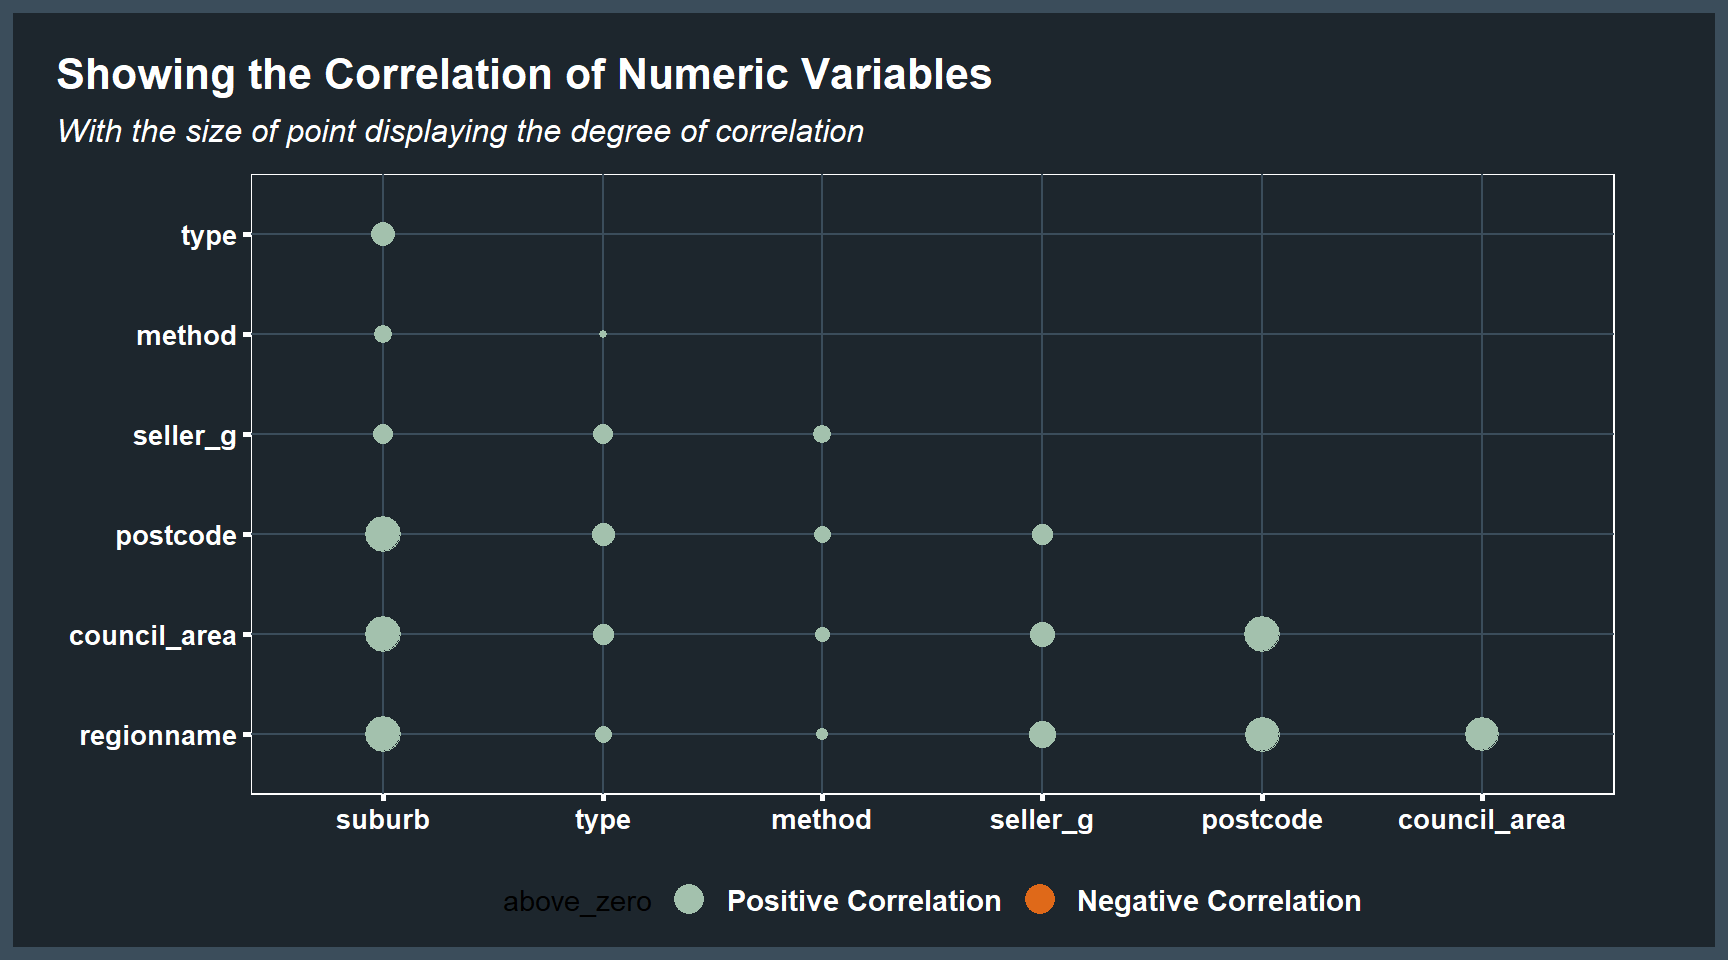
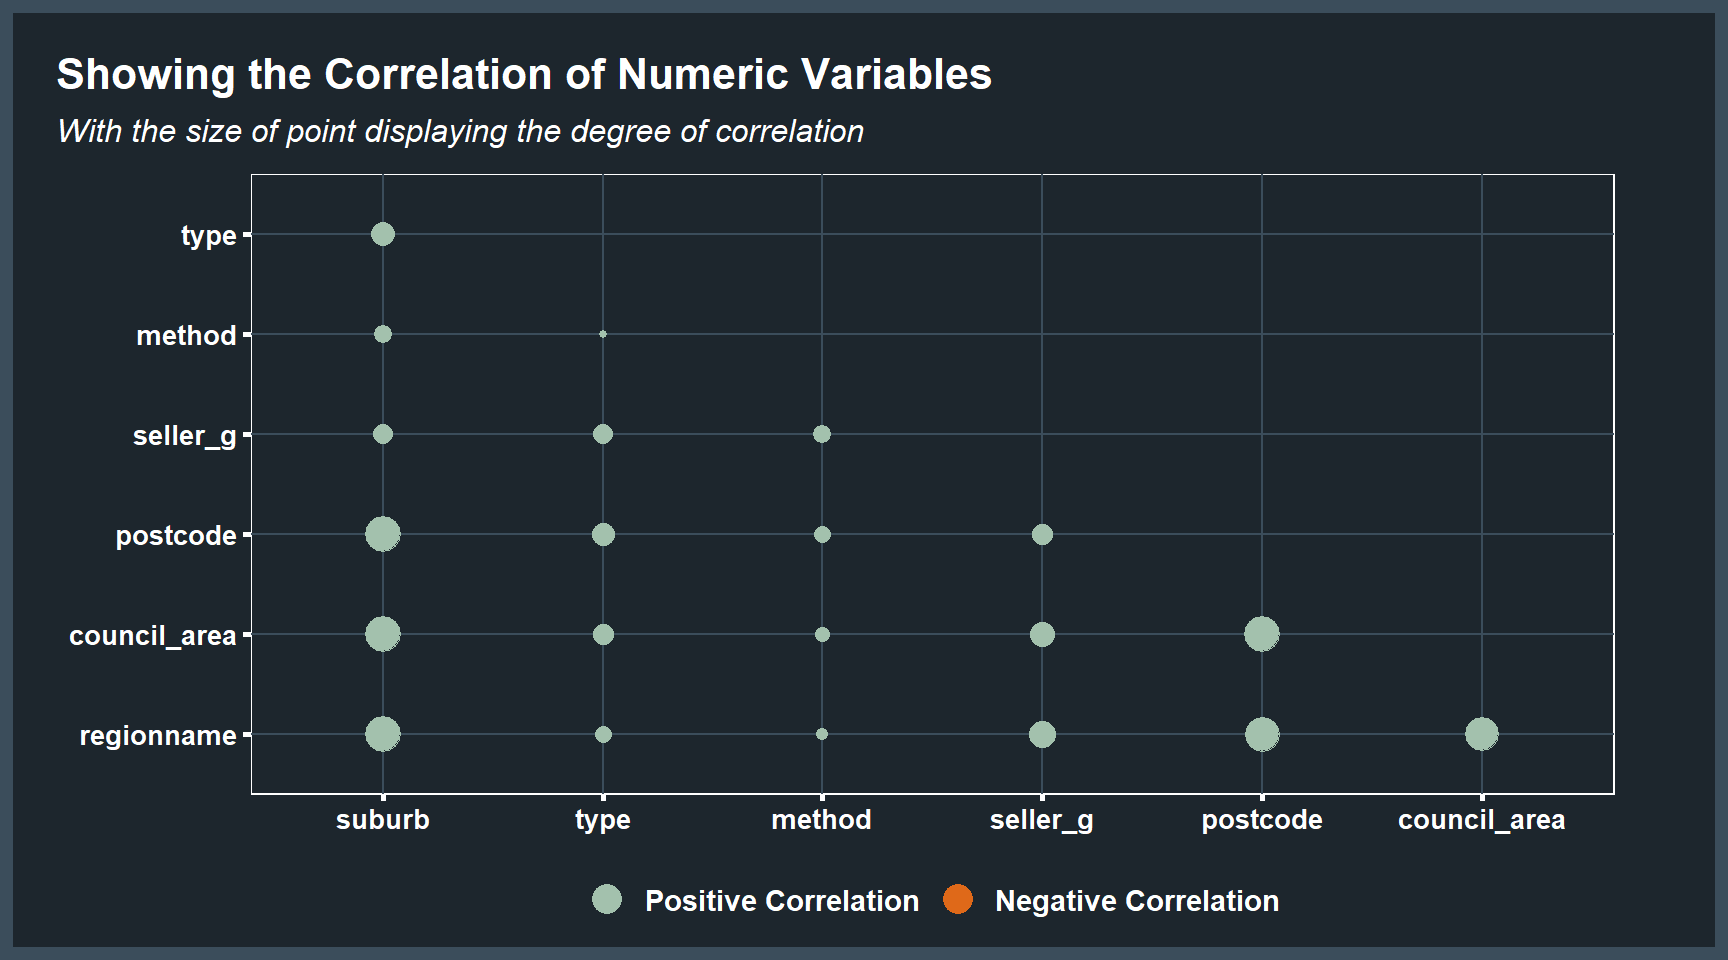
To edit plots

Changed region(s): [[0.2812, 0.9062, 0.7812, 0.9688]]

diff --git a/docs/index.html b/docs/index.html
@@ -149,7 +149,7 @@ pre > code.sourceCode > span > a:first-child::before { text-decoration: underlin
 
 
 <p>Here our task is to build a predictive model for a popular dataset on <a href="https://www.kaggle.com/datasets/anthonypino/melbourne-housing-market">Kaggle</a>. The dataset is not particularly complex, but various features of the data make it quite challenging to model.</p>
-<p>Two datasets are provided but we shall focus on the <code>full</code> version of the data.</p>
+<p>Two datasets are provided but we shall focus on the larger version of the data.</p>
 <section id="preliminaries" class="level1" data-number="1">
 <h1 data-number="1"><span class="header-section-number">1</span> Preliminaries</h1>
 <p>First we need to load in the packages we shall be using.</p>
@@ -1429,75 +1429,72 @@ $ propertycount &lt;dbl&gt; 4019, 4019, 4019, 4019, 4019, 4019, 4019, 4019, 4019
 <div class="cell">
 <div class="sourceCode cell-code" id="cb68"><pre class="sourceCode r code-with-copy"><code class="sourceCode r"><span id="cb68-1"><a href="#cb68-1" aria-hidden="true" tabindex="-1"></a>cat_data <span class="sc">|&gt;</span> </span>
 <span id="cb68-2"><a href="#cb68-2" aria-hidden="true" tabindex="-1"></a>   <span class="fu">ggplot</span>(<span class="fu">aes</span>(<span class="at">x =</span> vars, <span class="at">y =</span> <span class="fu">fct_rev</span>(rowname))) <span class="sc">+</span></span>
-<span id="cb68-3"><a href="#cb68-3" aria-hidden="true" tabindex="-1"></a>   <span class="fu">geom_point</span>(</span>
-<span id="cb68-4"><a href="#cb68-4" aria-hidden="true" tabindex="-1"></a>      (<span class="fu">aes</span>(<span class="at">size =</span> values, <span class="at">colour =</span> above_zero)),</span>
-<span id="cb68-5"><a href="#cb68-5" aria-hidden="true" tabindex="-1"></a>      <span class="at">show.legend =</span> <span class="cn">TRUE</span></span>
-<span id="cb68-6"><a href="#cb68-6" aria-hidden="true" tabindex="-1"></a>   ) <span class="sc">+</span></span>
-<span id="cb68-7"><a href="#cb68-7" aria-hidden="true" tabindex="-1"></a>   <span class="fu">scale_colour_discrete</span>(</span>
-<span id="cb68-8"><a href="#cb68-8" aria-hidden="true" tabindex="-1"></a>      <span class="at">type =</span> <span class="fu">c</span>(<span class="st">"#a3c1ad"</span>, <span class="st">"#df6919"</span>),</span>
-<span id="cb68-9"><a href="#cb68-9" aria-hidden="true" tabindex="-1"></a>      <span class="at">limits =</span> <span class="fu">c</span>(<span class="cn">TRUE</span>, <span class="cn">FALSE</span>),  </span>
-<span id="cb68-10"><a href="#cb68-10" aria-hidden="true" tabindex="-1"></a>      <span class="at">labels =</span> <span class="fu">c</span>(</span>
-<span id="cb68-11"><a href="#cb68-11" aria-hidden="true" tabindex="-1"></a>         <span class="st">"TRUE"</span> <span class="ot">=</span> <span class="st">"Positive Correlation"</span>,</span>
-<span id="cb68-12"><a href="#cb68-12" aria-hidden="true" tabindex="-1"></a>         <span class="st">"FALSE"</span> <span class="ot">=</span> <span class="st">"Negative Correlation"</span></span>
-<span id="cb68-13"><a href="#cb68-13" aria-hidden="true" tabindex="-1"></a>      )</span>
-<span id="cb68-14"><a href="#cb68-14" aria-hidden="true" tabindex="-1"></a>   ) <span class="sc">+</span></span>
-<span id="cb68-15"><a href="#cb68-15" aria-hidden="true" tabindex="-1"></a>   <span class="fu">guides</span>(</span>
-<span id="cb68-16"><a href="#cb68-16" aria-hidden="true" tabindex="-1"></a>      <span class="at">size =</span> <span class="st">"none"</span>, </span>
-<span id="cb68-17"><a href="#cb68-17" aria-hidden="true" tabindex="-1"></a>      <span class="at">colour =</span> <span class="fu">guide_legend</span>(<span class="at">override.aes =</span> <span class="fu">list</span>(<span class="at">size =</span> <span class="dv">5</span>))</span>
-<span id="cb68-18"><a href="#cb68-18" aria-hidden="true" tabindex="-1"></a>   ) <span class="sc">+</span> </span>
-<span id="cb68-19"><a href="#cb68-19" aria-hidden="true" tabindex="-1"></a>   <span class="fu">labs</span>(</span>
-<span id="cb68-20"><a href="#cb68-20" aria-hidden="true" tabindex="-1"></a>      <span class="at">x =</span> <span class="fu">element_blank</span>(), <span class="at">y =</span> <span class="fu">element_blank</span>(),</span>
-<span id="cb68-21"><a href="#cb68-21" aria-hidden="true" tabindex="-1"></a>      <span class="at">title =</span> <span class="st">"Showing the Correlation of Numeric Variables"</span>,</span>
-<span id="cb68-22"><a href="#cb68-22" aria-hidden="true" tabindex="-1"></a>      <span class="at">subtitle =</span> <span class="st">"With the size of point displaying the degree of correlation"</span></span>
-<span id="cb68-23"><a href="#cb68-23" aria-hidden="true" tabindex="-1"></a>   ) <span class="sc">+</span></span>
-<span id="cb68-24"><a href="#cb68-24" aria-hidden="true" tabindex="-1"></a>   <span class="fu">theme_minimal</span>() <span class="sc">+</span> </span>
-<span id="cb68-25"><a href="#cb68-25" aria-hidden="true" tabindex="-1"></a>   <span class="fu">theme</span>(</span>
-<span id="cb68-26"><a href="#cb68-26" aria-hidden="true" tabindex="-1"></a>      <span class="at">axis.text =</span> <span class="fu">element_text</span>(</span>
-<span id="cb68-27"><a href="#cb68-27" aria-hidden="true" tabindex="-1"></a>         <span class="at">face =</span> <span class="st">"bold"</span>, </span>
-<span id="cb68-28"><a href="#cb68-28" aria-hidden="true" tabindex="-1"></a>         <span class="at">size =</span> <span class="dv">10</span>, </span>
-<span id="cb68-29"><a href="#cb68-29" aria-hidden="true" tabindex="-1"></a>         <span class="at">colour =</span> <span class="st">"white"</span></span>
-<span id="cb68-30"><a href="#cb68-30" aria-hidden="true" tabindex="-1"></a>      ),</span>
-<span id="cb68-31"><a href="#cb68-31" aria-hidden="true" tabindex="-1"></a>      <span class="at">plot.title =</span> <span class="fu">element_text</span>(</span>
-<span id="cb68-32"><a href="#cb68-32" aria-hidden="true" tabindex="-1"></a>         <span class="at">face =</span> <span class="st">"bold"</span>, </span>
-<span id="cb68-33"><a href="#cb68-33" aria-hidden="true" tabindex="-1"></a>         <span class="at">size =</span> <span class="dv">16</span>, </span>
-<span id="cb68-34"><a href="#cb68-34" aria-hidden="true" tabindex="-1"></a>         <span class="at">colour =</span> <span class="st">"white"</span>, </span>
-<span id="cb68-35"><a href="#cb68-35" aria-hidden="true" tabindex="-1"></a>         <span class="at">margin =</span> <span class="fu">margin</span>(<span class="dv">0</span>, <span class="dv">0</span>, <span class="fl">7.5</span>, <span class="dv">0</span>)</span>
-<span id="cb68-36"><a href="#cb68-36" aria-hidden="true" tabindex="-1"></a>      ),</span>
-<span id="cb68-37"><a href="#cb68-37" aria-hidden="true" tabindex="-1"></a>      <span class="at">plot.subtitle =</span> <span class="fu">element_text</span>(</span>
-<span id="cb68-38"><a href="#cb68-38" aria-hidden="true" tabindex="-1"></a>         <span class="at">face =</span> <span class="st">"italic"</span>, </span>
-<span id="cb68-39"><a href="#cb68-39" aria-hidden="true" tabindex="-1"></a>         <span class="at">size =</span> <span class="dv">12</span>, </span>
-<span id="cb68-40"><a href="#cb68-40" aria-hidden="true" tabindex="-1"></a>         <span class="at">colour =</span> <span class="st">"white"</span>, </span>
-<span id="cb68-41"><a href="#cb68-41" aria-hidden="true" tabindex="-1"></a>         <span class="at">margin =</span> <span class="fu">margin</span>(<span class="dv">0</span>, <span class="dv">0</span>, <span class="dv">10</span>, <span class="dv">0</span>)</span>
-<span id="cb68-42"><a href="#cb68-42" aria-hidden="true" tabindex="-1"></a>      ),</span>
-<span id="cb68-43"><a href="#cb68-43" aria-hidden="true" tabindex="-1"></a>      <span class="at">legend.text =</span> <span class="fu">element_text</span>(</span>
-<span id="cb68-44"><a href="#cb68-44" aria-hidden="true" tabindex="-1"></a>         <span class="at">face =</span> <span class="st">"bold"</span>, </span>
-<span id="cb68-45"><a href="#cb68-45" aria-hidden="true" tabindex="-1"></a>         <span class="at">size =</span> <span class="dv">11</span>, </span>
-<span id="cb68-46"><a href="#cb68-46" aria-hidden="true" tabindex="-1"></a>         <span class="at">colour =</span> <span class="st">"white"</span></span>
-<span id="cb68-47"><a href="#cb68-47" aria-hidden="true" tabindex="-1"></a>      ),</span>
-<span id="cb68-48"><a href="#cb68-48" aria-hidden="true" tabindex="-1"></a>      <span class="at">panel.grid.major =</span> <span class="fu">element_line</span>(</span>
-<span id="cb68-49"><a href="#cb68-49" aria-hidden="true" tabindex="-1"></a>         <span class="at">colour =</span> <span class="st">"#3b4d5b"</span>, </span>
-<span id="cb68-50"><a href="#cb68-50" aria-hidden="true" tabindex="-1"></a>         <span class="at">linewidth =</span> <span class="fl">0.5</span></span>
-<span id="cb68-51"><a href="#cb68-51" aria-hidden="true" tabindex="-1"></a>      ),</span>
-<span id="cb68-52"><a href="#cb68-52" aria-hidden="true" tabindex="-1"></a>      <span class="at">panel.background =</span> <span class="fu">element_rect</span>(</span>
-<span id="cb68-53"><a href="#cb68-53" aria-hidden="true" tabindex="-1"></a>         <span class="at">fill =</span> <span class="st">"#1d262d"</span>, </span>
-<span id="cb68-54"><a href="#cb68-54" aria-hidden="true" tabindex="-1"></a>         <span class="at">colour =</span> <span class="st">"white"</span></span>
-<span id="cb68-55"><a href="#cb68-55" aria-hidden="true" tabindex="-1"></a>      ),</span>
-<span id="cb68-56"><a href="#cb68-56" aria-hidden="true" tabindex="-1"></a>      <span class="at">plot.background =</span> <span class="fu">element_rect</span>(</span>
-<span id="cb68-57"><a href="#cb68-57" aria-hidden="true" tabindex="-1"></a>         <span class="at">fill =</span> <span class="st">"#1d262d"</span>, </span>
-<span id="cb68-58"><a href="#cb68-58" aria-hidden="true" tabindex="-1"></a>         <span class="at">colour =</span> <span class="st">"#3b4d5b"</span>, </span>
-<span id="cb68-59"><a href="#cb68-59" aria-hidden="true" tabindex="-1"></a>         <span class="at">linewidth =</span> <span class="fl">4.5</span></span>
-<span id="cb68-60"><a href="#cb68-60" aria-hidden="true" tabindex="-1"></a>      ),</span>
-<span id="cb68-61"><a href="#cb68-61" aria-hidden="true" tabindex="-1"></a>      <span class="at">axis.ticks =</span> <span class="fu">element_line</span>(</span>
-<span id="cb68-62"><a href="#cb68-62" aria-hidden="true" tabindex="-1"></a>         <span class="at">linewidth =</span> <span class="dv">1</span>, </span>
-<span id="cb68-63"><a href="#cb68-63" aria-hidden="true" tabindex="-1"></a>         <span class="at">colour =</span> <span class="st">"white"</span></span>
-<span id="cb68-64"><a href="#cb68-64" aria-hidden="true" tabindex="-1"></a>      ),</span>
-<span id="cb68-65"><a href="#cb68-65" aria-hidden="true" tabindex="-1"></a>      <span class="at">plot.title.position =</span> <span class="st">"plot"</span>,</span>
-<span id="cb68-66"><a href="#cb68-66" aria-hidden="true" tabindex="-1"></a>      <span class="at">plot.margin =</span> <span class="fu">margin</span>(<span class="fl">0.75</span>, <span class="fl">1.5</span>, <span class="dv">0</span>, <span class="fl">0.75</span>, <span class="st">"cm"</span>),</span>
-<span id="cb68-67"><a href="#cb68-67" aria-hidden="true" tabindex="-1"></a>      <span class="at">legend.position =</span> <span class="st">"bottom"</span>,</span>
-<span id="cb68-68"><a href="#cb68-68" aria-hidden="true" tabindex="-1"></a>      <span class="at">egend.title =</span> <span class="fu">element_blank</span>(),</span>
-<span id="cb68-69"><a href="#cb68-69" aria-hidden="true" tabindex="-1"></a>      <span class="at">legend.margin =</span> <span class="fu">margin</span>(<span class="dv">0</span>, <span class="dv">0</span>, <span class="fl">0.5</span>, <span class="dv">0</span>, <span class="st">"cm"</span>),</span>
-<span id="cb68-70"><a href="#cb68-70" aria-hidden="true" tabindex="-1"></a>      <span class="at">panel.grid.minor =</span> <span class="fu">element_blank</span>()</span>
-<span id="cb68-71"><a href="#cb68-71" aria-hidden="true" tabindex="-1"></a>   ) </span></code><button title="Copy to Clipboard" class="code-copy-button"><i class="bi"></i></button></pre></div>
+<span id="cb68-3"><a href="#cb68-3" aria-hidden="true" tabindex="-1"></a>   <span class="fu">geom_point</span>(<span class="fu">aes</span>(<span class="at">size =</span> values, <span class="at">colour =</span> above_zero), <span class="at">show.legend =</span> <span class="cn">TRUE</span>) <span class="sc">+</span></span>
+<span id="cb68-4"><a href="#cb68-4" aria-hidden="true" tabindex="-1"></a>   <span class="fu">scale_colour_discrete</span>(</span>
+<span id="cb68-5"><a href="#cb68-5" aria-hidden="true" tabindex="-1"></a>      <span class="at">type =</span> <span class="fu">c</span>(<span class="st">"#a3c1ad"</span>, <span class="st">"#df6919"</span>),</span>
+<span id="cb68-6"><a href="#cb68-6" aria-hidden="true" tabindex="-1"></a>      <span class="at">limits =</span> <span class="fu">c</span>(<span class="cn">TRUE</span>, <span class="cn">FALSE</span>),  </span>
+<span id="cb68-7"><a href="#cb68-7" aria-hidden="true" tabindex="-1"></a>      <span class="at">labels =</span> <span class="fu">c</span>(</span>
+<span id="cb68-8"><a href="#cb68-8" aria-hidden="true" tabindex="-1"></a>         <span class="st">"TRUE"</span> <span class="ot">=</span> <span class="st">"Positive Correlation"</span>,</span>
+<span id="cb68-9"><a href="#cb68-9" aria-hidden="true" tabindex="-1"></a>         <span class="st">"FALSE"</span> <span class="ot">=</span> <span class="st">"Negative Correlation"</span></span>
+<span id="cb68-10"><a href="#cb68-10" aria-hidden="true" tabindex="-1"></a>      )</span>
+<span id="cb68-11"><a href="#cb68-11" aria-hidden="true" tabindex="-1"></a>   ) <span class="sc">+</span></span>
+<span id="cb68-12"><a href="#cb68-12" aria-hidden="true" tabindex="-1"></a>   <span class="fu">guides</span>(</span>
+<span id="cb68-13"><a href="#cb68-13" aria-hidden="true" tabindex="-1"></a>      <span class="at">size =</span> <span class="st">"none"</span>, </span>
+<span id="cb68-14"><a href="#cb68-14" aria-hidden="true" tabindex="-1"></a>      <span class="at">colour =</span> <span class="fu">guide_legend</span>(<span class="at">override.aes =</span> <span class="fu">list</span>(<span class="at">size =</span> <span class="dv">5</span>))</span>
+<span id="cb68-15"><a href="#cb68-15" aria-hidden="true" tabindex="-1"></a>   ) <span class="sc">+</span> </span>
+<span id="cb68-16"><a href="#cb68-16" aria-hidden="true" tabindex="-1"></a>   <span class="fu">labs</span>(</span>
+<span id="cb68-17"><a href="#cb68-17" aria-hidden="true" tabindex="-1"></a>      <span class="at">x =</span> <span class="fu">element_blank</span>(), <span class="at">y =</span> <span class="fu">element_blank</span>(),</span>
+<span id="cb68-18"><a href="#cb68-18" aria-hidden="true" tabindex="-1"></a>      <span class="at">title =</span> <span class="st">"Showing the Correlation of Numeric Variables"</span>,</span>
+<span id="cb68-19"><a href="#cb68-19" aria-hidden="true" tabindex="-1"></a>      <span class="at">subtitle =</span> <span class="st">"With the size of point displaying the degree of correlation"</span></span>
+<span id="cb68-20"><a href="#cb68-20" aria-hidden="true" tabindex="-1"></a>   ) <span class="sc">+</span></span>
+<span id="cb68-21"><a href="#cb68-21" aria-hidden="true" tabindex="-1"></a>   <span class="fu">theme_minimal</span>() <span class="sc">+</span> </span>
+<span id="cb68-22"><a href="#cb68-22" aria-hidden="true" tabindex="-1"></a>   <span class="fu">theme</span>(</span>
+<span id="cb68-23"><a href="#cb68-23" aria-hidden="true" tabindex="-1"></a>      <span class="at">axis.text =</span> <span class="fu">element_text</span>(</span>
+<span id="cb68-24"><a href="#cb68-24" aria-hidden="true" tabindex="-1"></a>         <span class="at">face =</span> <span class="st">"bold"</span>, </span>
+<span id="cb68-25"><a href="#cb68-25" aria-hidden="true" tabindex="-1"></a>         <span class="at">size =</span> <span class="dv">10</span>, </span>
+<span id="cb68-26"><a href="#cb68-26" aria-hidden="true" tabindex="-1"></a>         <span class="at">colour =</span> <span class="st">"white"</span></span>
+<span id="cb68-27"><a href="#cb68-27" aria-hidden="true" tabindex="-1"></a>      ),</span>
+<span id="cb68-28"><a href="#cb68-28" aria-hidden="true" tabindex="-1"></a>      <span class="at">plot.title =</span> <span class="fu">element_text</span>(</span>
+<span id="cb68-29"><a href="#cb68-29" aria-hidden="true" tabindex="-1"></a>         <span class="at">face =</span> <span class="st">"bold"</span>, </span>
+<span id="cb68-30"><a href="#cb68-30" aria-hidden="true" tabindex="-1"></a>         <span class="at">size =</span> <span class="dv">16</span>, </span>
+<span id="cb68-31"><a href="#cb68-31" aria-hidden="true" tabindex="-1"></a>         <span class="at">colour =</span> <span class="st">"white"</span>, </span>
+<span id="cb68-32"><a href="#cb68-32" aria-hidden="true" tabindex="-1"></a>         <span class="at">margin =</span> <span class="fu">margin</span>(<span class="dv">0</span>, <span class="dv">0</span>, <span class="fl">7.5</span>, <span class="dv">0</span>)</span>
+<span id="cb68-33"><a href="#cb68-33" aria-hidden="true" tabindex="-1"></a>      ),</span>
+<span id="cb68-34"><a href="#cb68-34" aria-hidden="true" tabindex="-1"></a>      <span class="at">plot.subtitle =</span> <span class="fu">element_text</span>(</span>
+<span id="cb68-35"><a href="#cb68-35" aria-hidden="true" tabindex="-1"></a>         <span class="at">face =</span> <span class="st">"italic"</span>, </span>
+<span id="cb68-36"><a href="#cb68-36" aria-hidden="true" tabindex="-1"></a>         <span class="at">size =</span> <span class="dv">12</span>, </span>
+<span id="cb68-37"><a href="#cb68-37" aria-hidden="true" tabindex="-1"></a>         <span class="at">colour =</span> <span class="st">"white"</span>, </span>
+<span id="cb68-38"><a href="#cb68-38" aria-hidden="true" tabindex="-1"></a>         <span class="at">margin =</span> <span class="fu">margin</span>(<span class="dv">0</span>, <span class="dv">0</span>, <span class="dv">10</span>, <span class="dv">0</span>)</span>
+<span id="cb68-39"><a href="#cb68-39" aria-hidden="true" tabindex="-1"></a>      ),</span>
+<span id="cb68-40"><a href="#cb68-40" aria-hidden="true" tabindex="-1"></a>      <span class="at">legend.text =</span> <span class="fu">element_text</span>(</span>
+<span id="cb68-41"><a href="#cb68-41" aria-hidden="true" tabindex="-1"></a>         <span class="at">face =</span> <span class="st">"bold"</span>, </span>
+<span id="cb68-42"><a href="#cb68-42" aria-hidden="true" tabindex="-1"></a>         <span class="at">size =</span> <span class="dv">11</span>, </span>
+<span id="cb68-43"><a href="#cb68-43" aria-hidden="true" tabindex="-1"></a>         <span class="at">colour =</span> <span class="st">"white"</span></span>
+<span id="cb68-44"><a href="#cb68-44" aria-hidden="true" tabindex="-1"></a>      ),</span>
+<span id="cb68-45"><a href="#cb68-45" aria-hidden="true" tabindex="-1"></a>      <span class="at">panel.grid.major =</span> <span class="fu">element_line</span>(</span>
+<span id="cb68-46"><a href="#cb68-46" aria-hidden="true" tabindex="-1"></a>         <span class="at">colour =</span> <span class="st">"#3b4d5b"</span>, </span>
+<span id="cb68-47"><a href="#cb68-47" aria-hidden="true" tabindex="-1"></a>         <span class="at">linewidth =</span> <span class="fl">0.5</span></span>
+<span id="cb68-48"><a href="#cb68-48" aria-hidden="true" tabindex="-1"></a>      ),</span>
+<span id="cb68-49"><a href="#cb68-49" aria-hidden="true" tabindex="-1"></a>      <span class="at">panel.background =</span> <span class="fu">element_rect</span>(</span>
+<span id="cb68-50"><a href="#cb68-50" aria-hidden="true" tabindex="-1"></a>         <span class="at">fill =</span> <span class="st">"#1d262d"</span>, </span>
+<span id="cb68-51"><a href="#cb68-51" aria-hidden="true" tabindex="-1"></a>         <span class="at">colour =</span> <span class="st">"white"</span></span>
+<span id="cb68-52"><a href="#cb68-52" aria-hidden="true" tabindex="-1"></a>      ),</span>
+<span id="cb68-53"><a href="#cb68-53" aria-hidden="true" tabindex="-1"></a>      <span class="at">plot.background =</span> <span class="fu">element_rect</span>(</span>
+<span id="cb68-54"><a href="#cb68-54" aria-hidden="true" tabindex="-1"></a>         <span class="at">fill =</span> <span class="st">"#1d262d"</span>, </span>
+<span id="cb68-55"><a href="#cb68-55" aria-hidden="true" tabindex="-1"></a>         <span class="at">colour =</span> <span class="st">"#3b4d5b"</span>, </span>
+<span id="cb68-56"><a href="#cb68-56" aria-hidden="true" tabindex="-1"></a>         <span class="at">linewidth =</span> <span class="fl">4.5</span></span>
+<span id="cb68-57"><a href="#cb68-57" aria-hidden="true" tabindex="-1"></a>      ),</span>
+<span id="cb68-58"><a href="#cb68-58" aria-hidden="true" tabindex="-1"></a>      <span class="at">axis.ticks =</span> <span class="fu">element_line</span>(</span>
+<span id="cb68-59"><a href="#cb68-59" aria-hidden="true" tabindex="-1"></a>         <span class="at">linewidth =</span> <span class="dv">1</span>, </span>
+<span id="cb68-60"><a href="#cb68-60" aria-hidden="true" tabindex="-1"></a>         <span class="at">colour =</span> <span class="st">"white"</span></span>
+<span id="cb68-61"><a href="#cb68-61" aria-hidden="true" tabindex="-1"></a>      ),</span>
+<span id="cb68-62"><a href="#cb68-62" aria-hidden="true" tabindex="-1"></a>      <span class="at">plot.title.position =</span> <span class="st">"plot"</span>,</span>
+<span id="cb68-63"><a href="#cb68-63" aria-hidden="true" tabindex="-1"></a>      <span class="at">plot.margin =</span> <span class="fu">margin</span>(<span class="fl">0.75</span>, <span class="fl">1.5</span>, <span class="dv">0</span>, <span class="fl">0.75</span>, <span class="st">"cm"</span>),</span>
+<span id="cb68-64"><a href="#cb68-64" aria-hidden="true" tabindex="-1"></a>      <span class="at">legend.position =</span> <span class="st">"bottom"</span>,</span>
+<span id="cb68-65"><a href="#cb68-65" aria-hidden="true" tabindex="-1"></a>      <span class="at">legend.title =</span> <span class="fu">element_blank</span>(),</span>
+<span id="cb68-66"><a href="#cb68-66" aria-hidden="true" tabindex="-1"></a>      <span class="at">legend.margin =</span> <span class="fu">margin</span>(<span class="dv">0</span>, <span class="dv">0</span>, <span class="fl">0.5</span>, <span class="dv">0</span>, <span class="st">"cm"</span>),</span>
+<span id="cb68-67"><a href="#cb68-67" aria-hidden="true" tabindex="-1"></a>      <span class="at">panel.grid.minor =</span> <span class="fu">element_blank</span>()</span>
+<span id="cb68-68"><a href="#cb68-68" aria-hidden="true" tabindex="-1"></a>   ) </span></code><button title="Copy to Clipboard" class="code-copy-button"><i class="bi"></i></button></pre></div>
 <div class="cell-output-display">
 <div>
 <figure class="figure">
